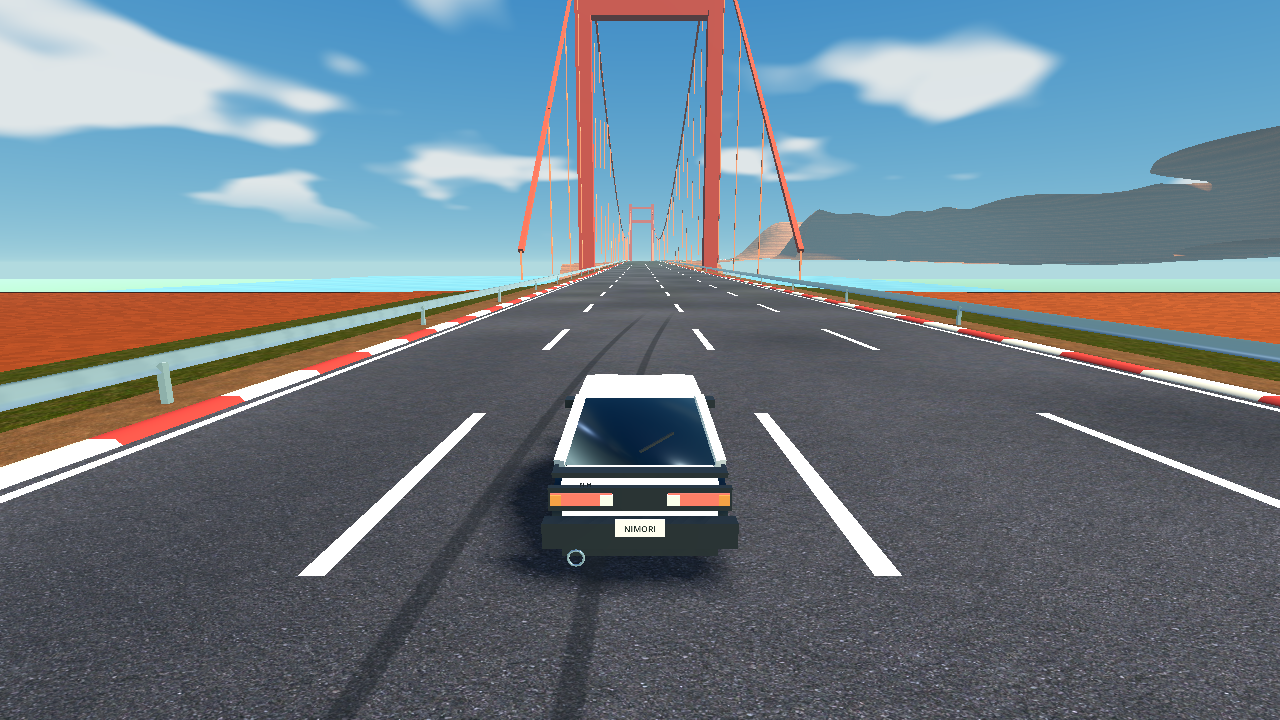
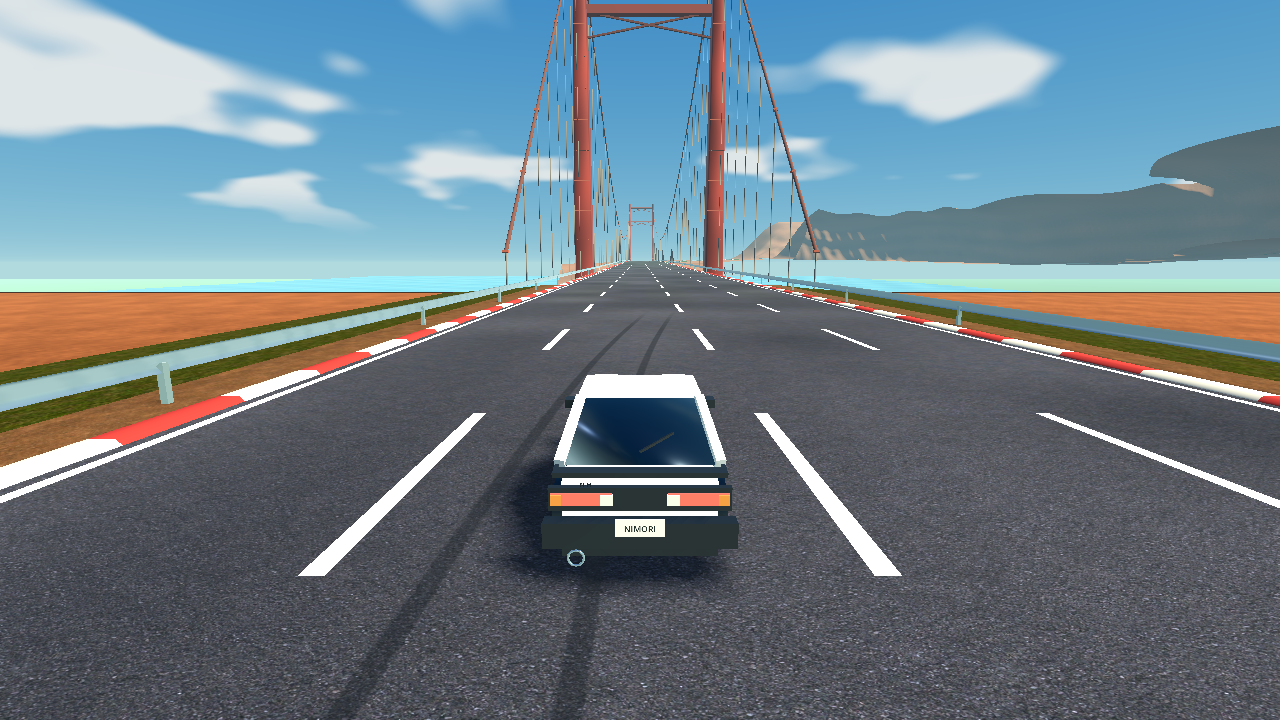
교량·광고판 비례와 암석·야자수 모델 디테일 개선

diff --git a/tools/bake_sandstone.py b/tools/bake_sandstone.py
@@ -1,0 +1,23 @@
+#!/usr/bin/env python3
+"""타일 경계가 이어지는 사암 색상·높이(RGBA)를 절차적으로 생성합니다."""
+from pathlib import Path
+import numpy as np
+from PIL import Image
+N=1024
+rng=np.random.default_rng(59206)
+def noise(size):
+    a=rng.random((size,size)).astype(np.float32)
+    q=np.arange(N)*size/N
+    k=q.astype(int);t=q-k;t=t*t*(3-2*t)
+    v=a[k[:,None]%size,k[None,:]%size]*(1-t[None,:])+a[k[:,None]%size,(k[None,:]+1)%size]*t[None,:]
+    w=a[(k[:,None]+1)%size,k[None,:]%size]*(1-t[None,:])+a[(k[:,None]+1)%size,(k[None,:]+1)%size]*t[None,:]
+    return v*(1-t[:,None])+w*t[:,None]
+y,x=np.mgrid[:N,:N]/N
+broad=noise(4);medium=noise(16);fine=noise(64);grain=noise(256)
+warp=np.sin(x*2*np.pi)*.08+np.sin(x*6*np.pi)*.025
+strata=np.sin((y+warp)*np.pi*32)*.5+.5
+height=.4*broad+.22*medium+.15*fine+.08*grain+.15*strata
+color=np.array([155,99,65])[None,None,:]*(.84+.14*broad+.10*medium+.12*fine+.04*grain)[...,None]
+color+=((strata-.5)*7)[...,None]*np.array([1,.8,.5])
+rgba=np.concatenate([np.clip(color,0,255).astype(np.uint8),np.clip(height[...,None]*255,0,255).astype(np.uint8)],axis=2)
+Image.fromarray(rgba).save(Path(__file__).resolve().parents[1]/'assets/environment/sandstone-detail.png')

diff --git a/assets/environment/README.md b/assets/environment/README.md
@@ -11,3 +11,9 @@ No downloaded photographs or original arcade-game assets are used for the curren
 ## 장대교·협곡과 가상 광고
 
 `scenic_landmarks.gd`의 현수교와 층상 절벽은 이 프로젝트에서 직접 만든 절차적 3D 메시입니다. `ad-aerova.svg`, `ad-shift.svg`, `ad-fizz.svg`, `ad-apex.svg`는 가상 브랜드 광고이며 `tools/bake_scenic_ads.py`로 만듭니다. 번들 Roboto Bold Italic 글꼴(Apache-2.0, `assets/fonts/Roboto-LICENSE.txt`)의 윤곽선을 사용합니다. 외부 게임의 구조물·광고·상표를 추출하거나 복사하지 않았습니다. 광고판은 주행로 밖에 고정한 실제 패널이며 카메라를 따라 회전하지 않습니다.
+
+## 구조물·표면 디테일
+
+현수교는 테이퍼와 모서리가 있는 주탑, 콘크리트 기초, 원형 케이블, 별도 행거·접합판·가로보 보강재와 두께 있는 교량 바닥을 사용합니다. 광고판은 16×7m로 통일하며 42cm 두께의 뒷판, 금속 테두리, 후면 트러스·독립 기초·점검 발판·조명 하우징을 추가했습니다. 조명은 렌즈 재질로 표현하며 광고마다 동적 광원을 만들지 않습니다.
+
+`sandstone-detail.png`는 `tools/bake_sandstone.py`로 생성한 타일형 RGBA 표면입니다. RGB는 암석 색상, 알파는 미세 높이이며 밉맵·이방성 필터링과 삼면 투영으로 가파른 절벽의 늘어짐을 줄입니다. 외부 텍스처를 복사하지 않았습니다. 야자수는 연속 줄기·수피 마디와 잎맥·가느다란 소엽을 사용하며 기존의 개체별 폴리곤 예산 안에서 생성합니다.

diff --git a/docs/DEVELOPMENT.md b/docs/DEVELOPMENT.md
@@ -164,3 +164,9 @@ touch build/site/.nojekyll
 `gorge_course.gd`는 긴 다리 직선과 협곡 S자를 연결하고 `gorge_environment.gd`가 수면·노면 아래 지형·공유 구조물을 배치합니다. 투어는 기존 분기·시간·도로 고도를 유지하며 첫 해안 구간의 지형만 다리 아래에서 낮추고, 협곡 루트에는 터널 전후로 절벽과 광고를 배치합니다.
 
 `tests/gorge_checks.gd`는 두 모드의 구조물, 광고판의 가드레일 밖 배치, 터널 회피, 360개 실제 물리 광선의 노면 높이, 실제 조향·가속·제동·드리프트로 한 바퀴 완주와 패드 진입을 검사합니다.
+
+### 구조물 표면과 모델 비례
+
+현수교의 주탑은 SurfaceTool로 테이퍼와 모서리를 만들고 케이블·행거는 원형 단면을 사용합니다. 보강재·접합판·기초·교량 바닥과 광고판의 패널·프레임·후면 지지대는 종류별 MultiMesh로 묶습니다. 광고판은 16×7m, 뒷판 두께 0.42m이며 앞면을 기둥이 가리지 않습니다. 동적 조명 수는 늘리지 않습니다. 실제 주행 노면·가드레일 충돌체는 유지합니다.
+
+사암 텍스처는 `python3 tools/bake_sandstone.py`로 다시 생성합니다(numpy·Pillow 필요). `sandstone.gdshader`가 RGB 색상과 알파 높이를 삼면 투영하며 높이 미분으로 미세 표면 법선을 보정합니다. 절벽의 면 분할·침식 요철은 메시에서, 미세 입자와 풍화는 텍스처·재질에서 처리합니다. 야자수는 `scenery_3d_checks.gd`의 개체별 3,200삼각형 한도를 유지합니다.
